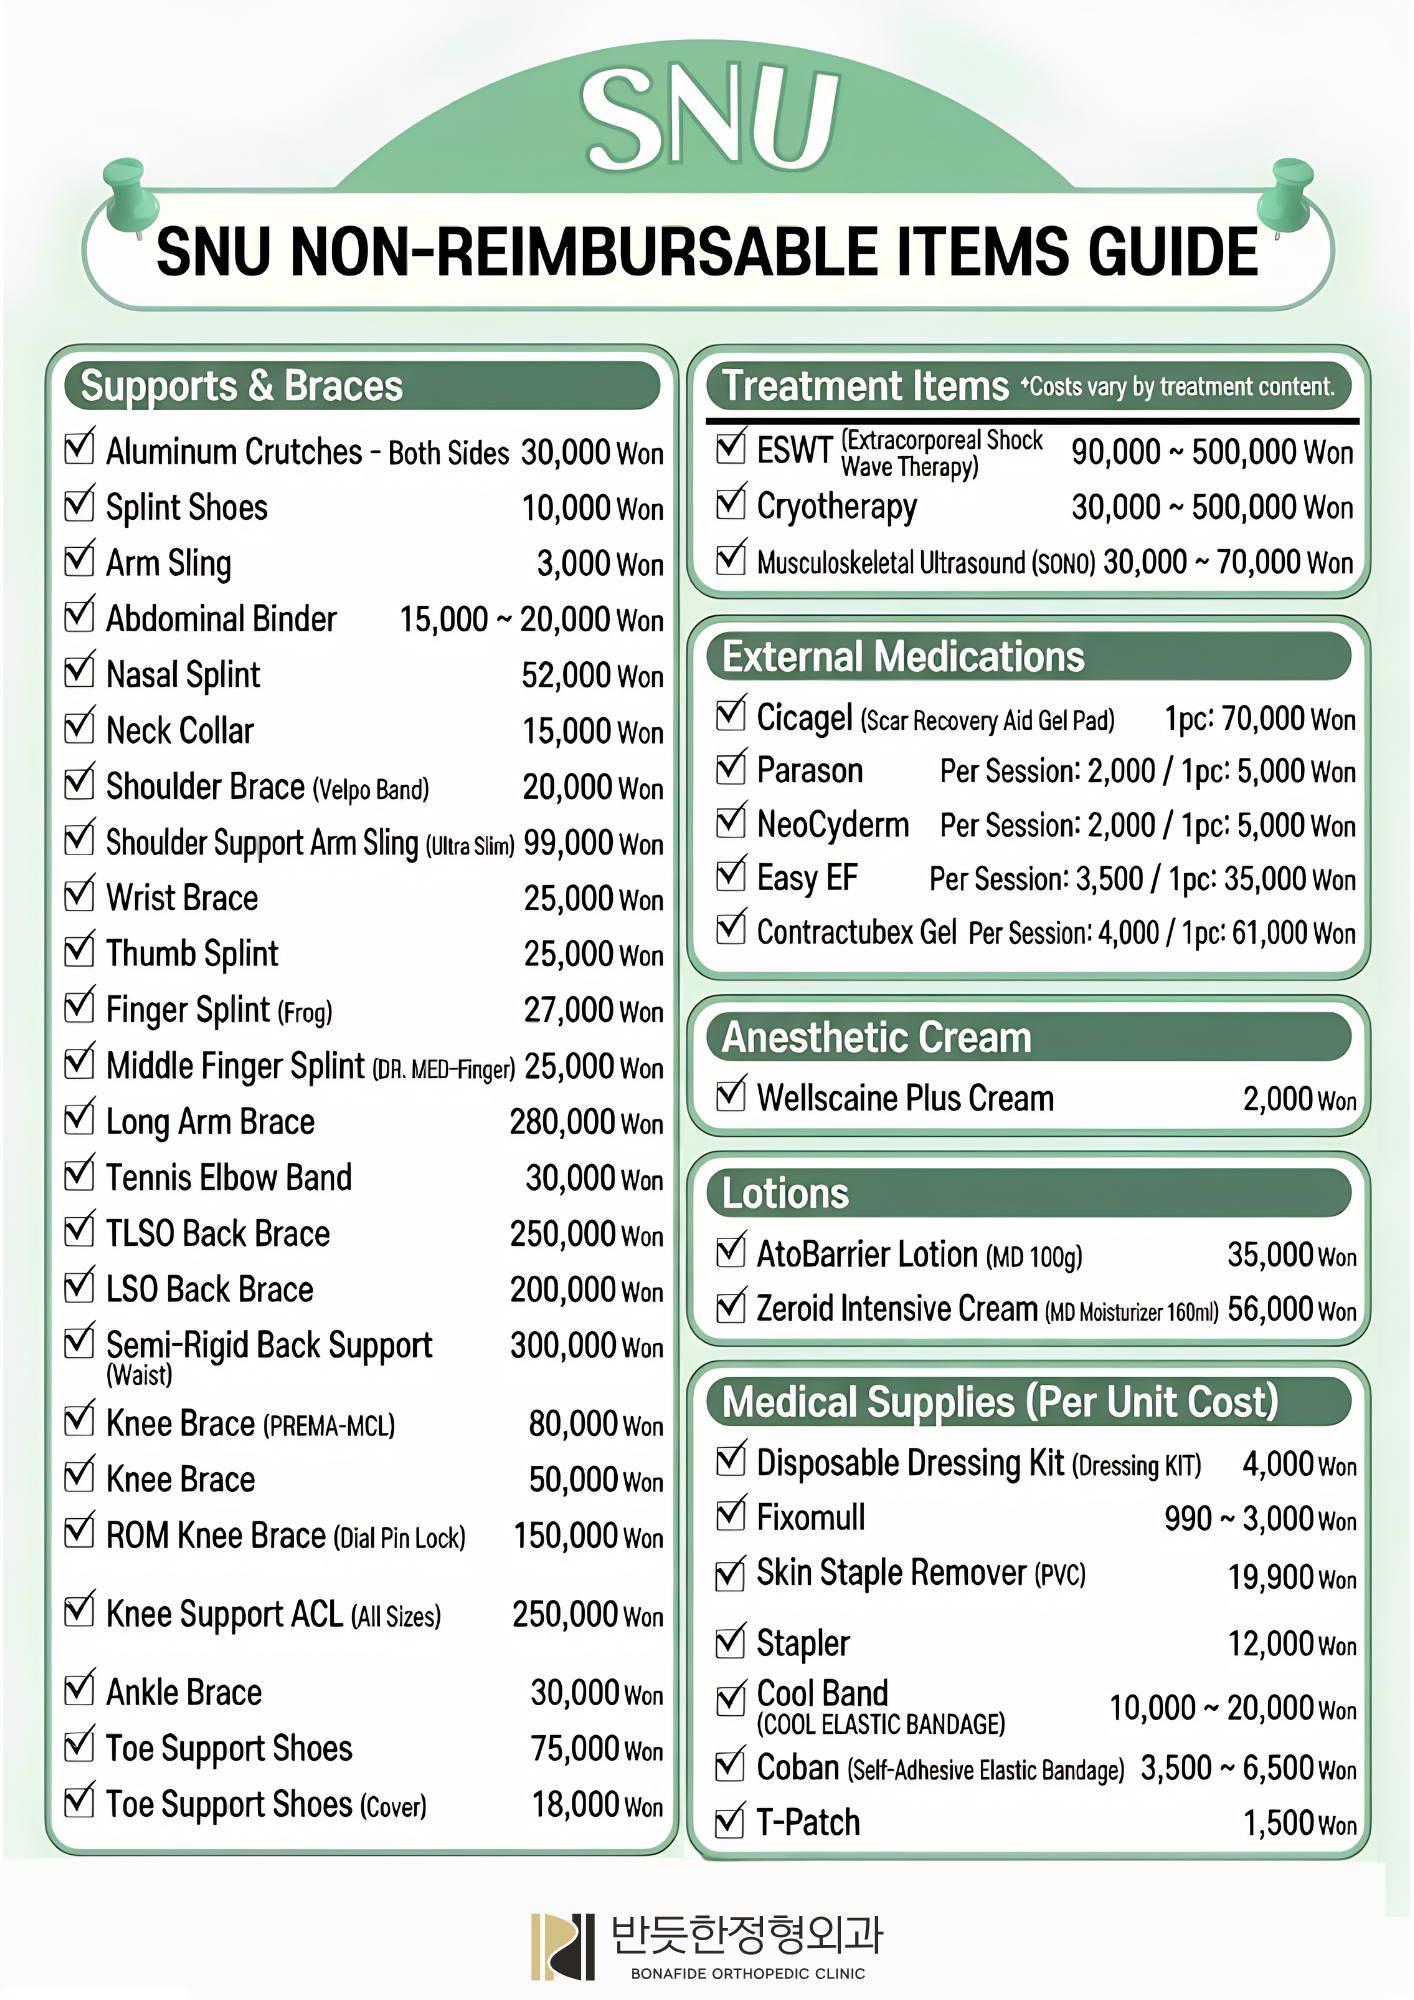
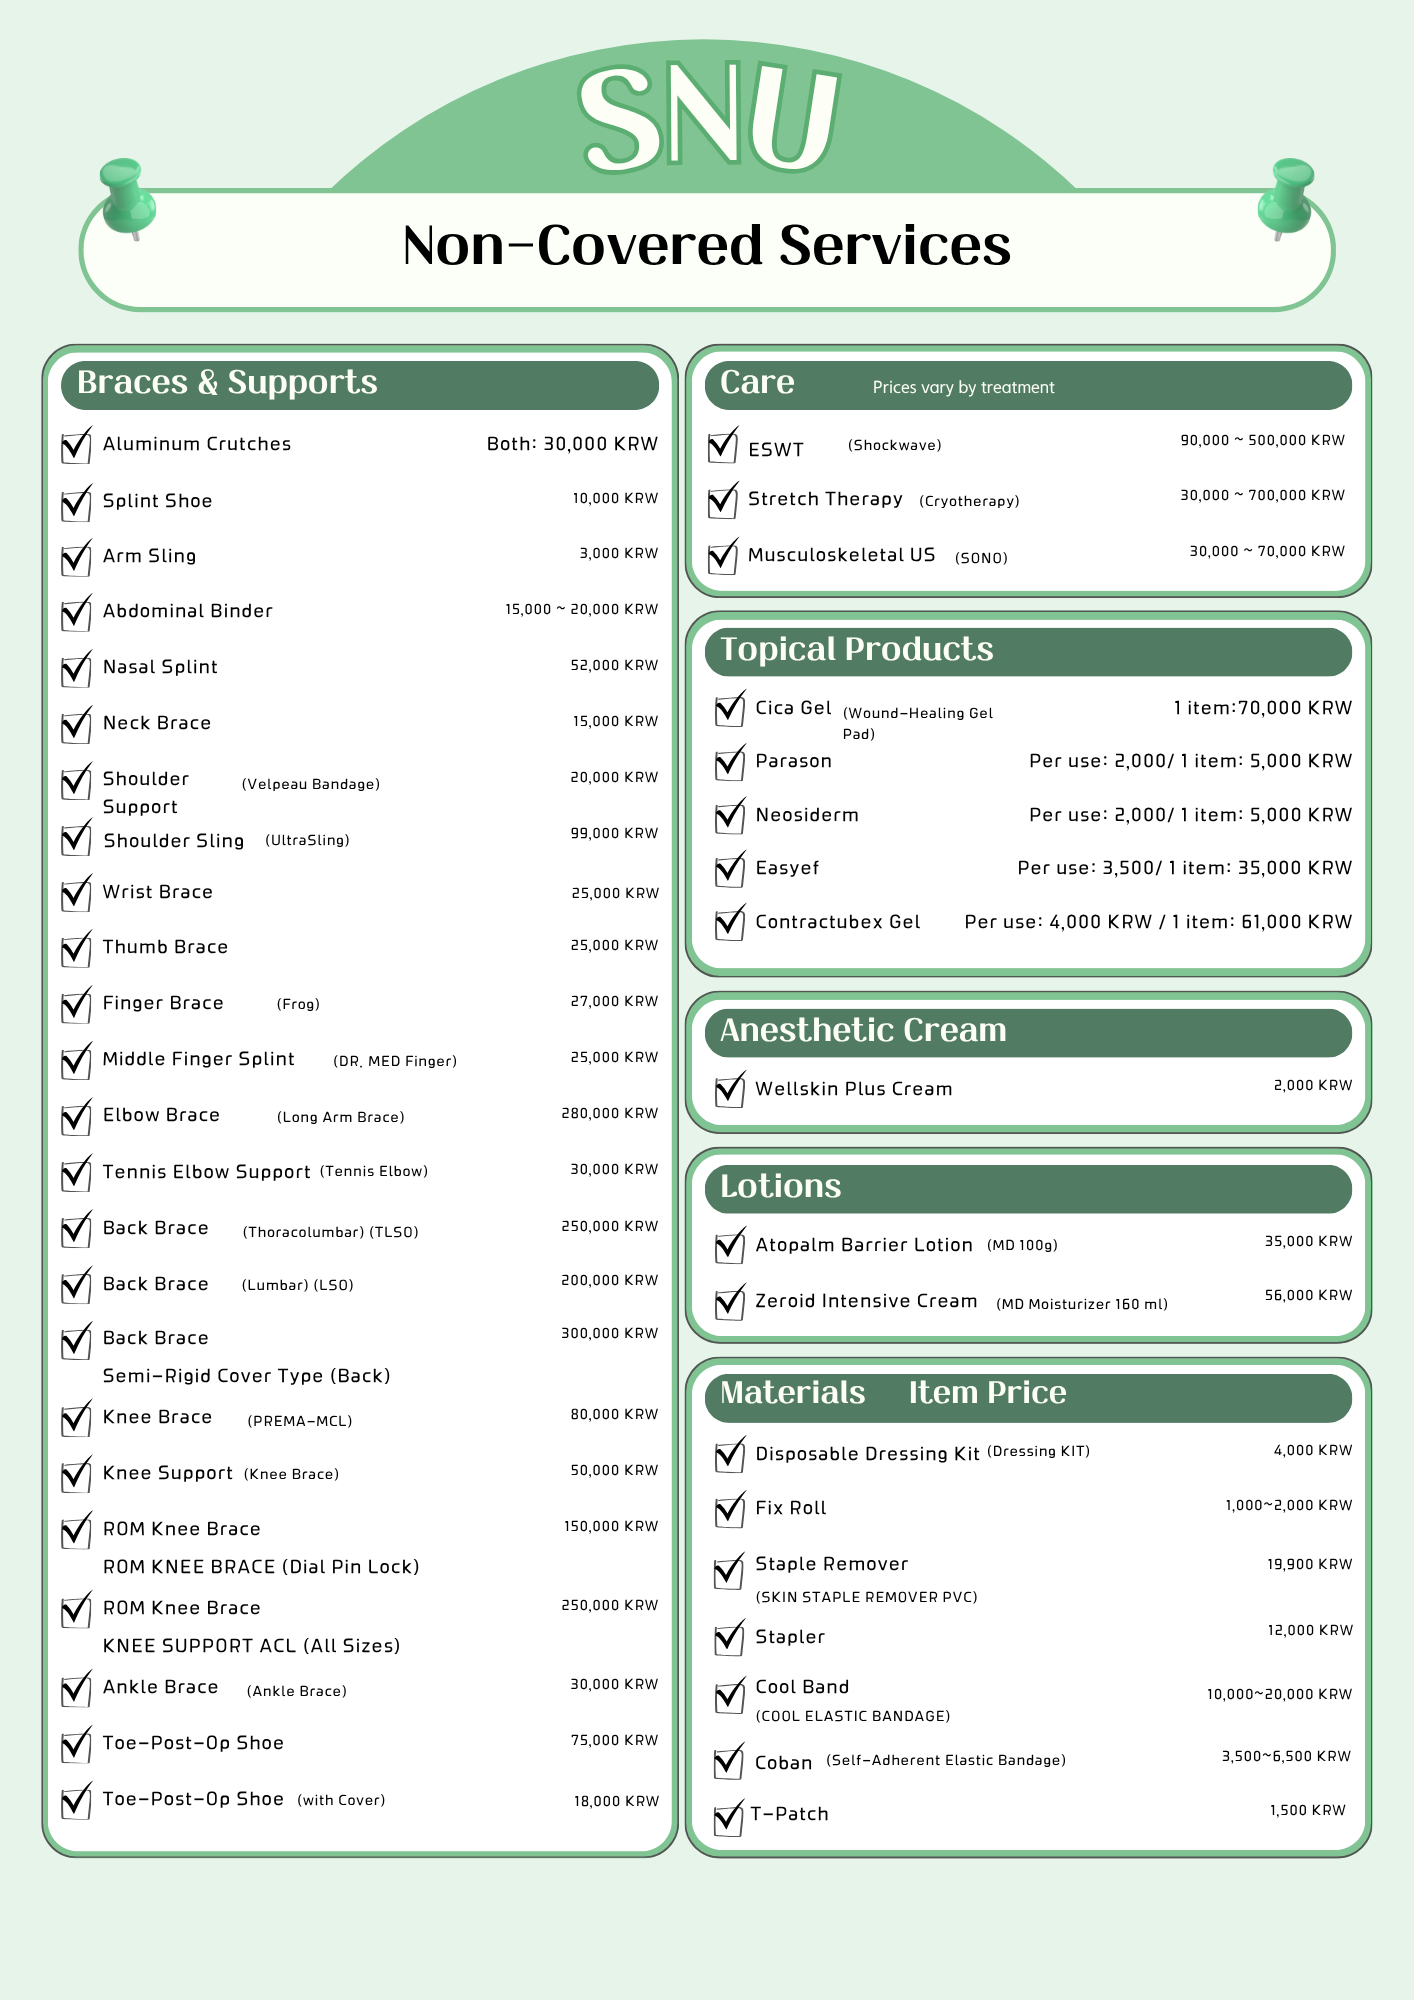
fix: 서울대입구점 비급여항목안내 (1) 한/영 갱신
신장분사치료 Cryotherapy  30,000~500,000 -> 30,000~700,000
  픽스롤       Fix Roll        990~3,000   ->  1,000~2,000

한글판과 영문판을 항목별로 전부 대조했고 불일치는 없다. 영문 금액 단위도
KRW 로 제대로 표기되어 있다(비급여항목안내 (2) 영문판의 "K" 문제는 그쪽에 남아 있음).
까치산점 가격표(clinics/bonafide365clinic/)는 별도 파일이라 영향 없다.

BANNER_VER 20261005e -> 20261011.

diff --git a/js/i18n.js b/js/i18n.js
@@ -5,7 +5,7 @@
    ───────────────────────────────────────────── */
 
 /* 배너 캐시 버전: 배너 이미지를 같은 파일명으로 교체할 때마다 이 값을 올린다. */
-const BANNER_VER = '20261005e';
+const BANNER_VER = '20261011';
 
 const translationMap = {
   ko: {
